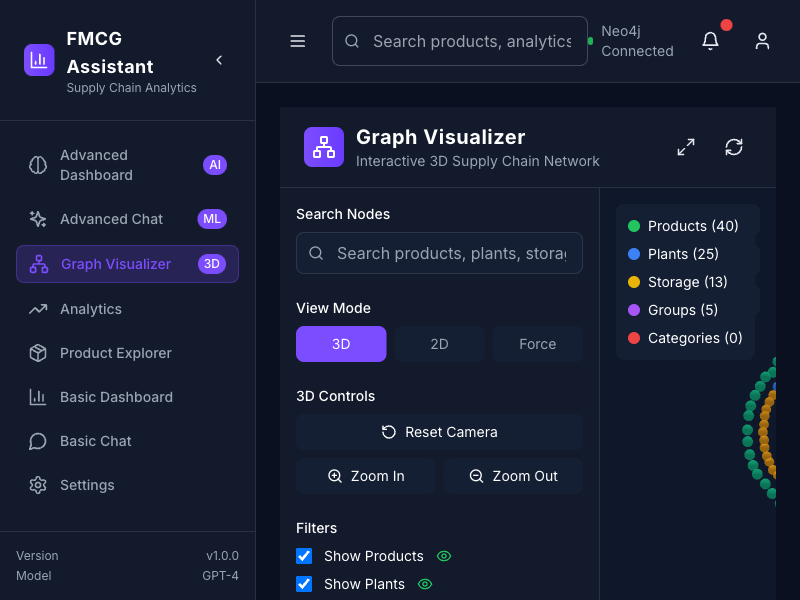
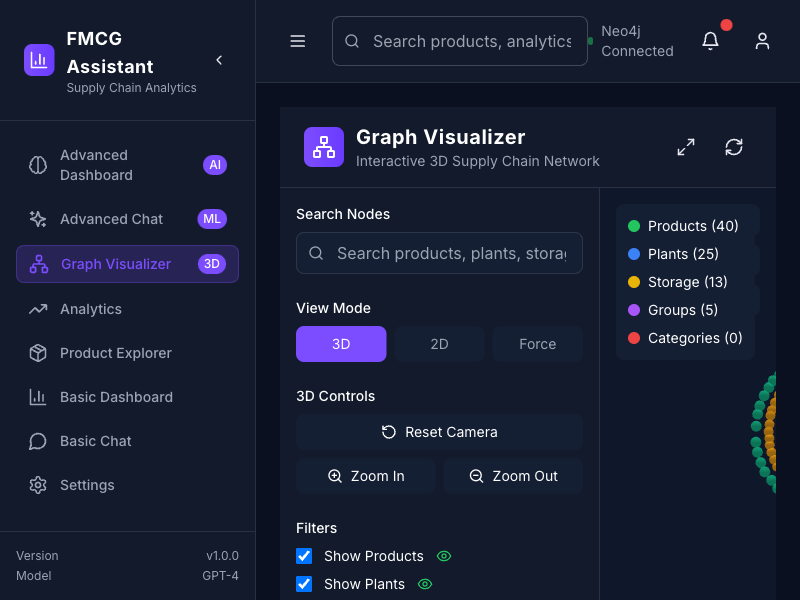
Add detailed debugging for edge mapping in 3D visualization

Changed region(s): [[0.9062, 0.6, 0.9688, 0.84]]

diff --git a/test_3d_detailed.js b/test_3d_detailed.js
@@ -1,0 +1,142 @@
+// Detailed test to debug 3D visualization issues
+const puppeteer = require('puppeteer');
+
+async function test3DDetailed() {
+  console.log('🔍 Detailed 3D Visualization Debug...');
+  
+  const browser = await puppeteer.launch({ headless: true });
+  const page = await browser.newPage();
+  
+  // Capture all console messages
+  const consoleMessages = [];
+  page.on('console', msg => {
+    consoleMessages.push({
+      type: msg.type(),
+      text: msg.text()
+    });
+  });
+  
+  try {
+    // Navigate to the graph page
+    await page.goto('https://llm-chatbot-python-production-7e6f.up.railway.app/graph', {
+      waitUntil: 'networkidle0',
+      timeout: 30000
+    });
+    
+    console.log('✅ Page loaded successfully');
+    
+    // Wait for the 3D visualization to load
+    await page.waitForTimeout(10000);
+    
+    // Print all console messages
+    console.log('\n📝 All Console Messages:');
+    consoleMessages.forEach((msg, i) => {
+      console.log(`  [${i}] [${msg.type}] ${msg.text}`);
+    });
+    
+    // Check viewMode
+    const viewMode = await page.evaluate(() => {
+      // Try to access React state
+      const root = document.querySelector('#root');
+      if (root && root._reactInternalFiber) {
+        return 'React root found';
+      }
+      return 'React root not accessible';
+    });
+    
+    console.log('\n🎯 ViewMode Status:', viewMode);
+    
+    // Check if 3D controls are actually rendered
+    const controlsStatus = await page.evaluate(() => {
+      const buttons = Array.from(document.querySelectorAll('button'));
+      const controlButtons = buttons.filter(btn => 
+        btn.textContent.includes('Reset Camera') ||
+        btn.textContent.includes('Zoom In') ||
+        btn.textContent.includes('Zoom Out')
+      );
+      
+      return {
+        totalButtons: buttons.length,
+        controlButtons: controlButtons.length,
+        buttonTexts: buttons.map(btn => btn.textContent.trim()),
+        controlButtonTexts: controlButtons.map(btn => btn.textContent.trim())
+      };
+    });
+    
+    console.log('\n🎛 Controls Status:', controlsStatus);
+    
+    // Check the actual DOM structure
+    const domStructure = await page.evaluate(() => {
+      const main = document.querySelector('main');
+      if (main) {
+        return {
+          tagName: main.tagName,
+          className: main.className,
+          childrenCount: main.children.length,
+          children: Array.from(main.children).map(child => ({
+            tagName: child.tagName,
+            className: child.className,
+            childrenCount: child.children.length
+          }))
+        };
+      }
+      return null;
+    });
+    
+    console.log('\n🏗 DOM Structure:', JSON.stringify(domStructure, null, 2));
+    
+    // Check if ForceGraph3D is rendering edges
+    const edgeStatus = await page.evaluate(() => {
+      const canvas = document.querySelector('canvas');
+      if (canvas) {
+        // Check if there are any WebGL draw calls or 3D elements
+        const webglContext = canvas.getContext('webgl') || canvas.getContext('webgl2');
+        if (webglContext) {
+          // Try to get some WebGL info
+          return {
+            hasCanvas: true,
+            hasWebGL: true,
+            webglVendor: webglContext.getParameter(webglContext.VENDOR),
+            webglRenderer: webglContext.getParameter(webglContext.RENDERER),
+            webglVersion: webglContext.getParameter(webglContext.VERSION)
+          };
+        }
+      }
+      return { hasCanvas: false, hasWebGL: false };
+    });
+    
+    console.log('\n🔗 Edge Status:', edgeStatus);
+    
+    // Check the graph data being passed to ForceGraph3D
+    const graphDataDebug = await page.evaluate(async () => {
+      try {
+        const response = await fetch('/api/graph/visualization');
+        const data = await response.json();
+        
+        // Check if edges have proper source/target mapping
+        const sampleEdges = data.edges?.slice(0, 5) || [];
+        const nodeIds = data.nodes?.map(n => n.id) || [];
+        
+        return {
+          nodesCount: data.nodes?.length || 0,
+          edgesCount: data.edges?.length || 0,
+          sampleEdges: sampleEdges,
+          nodeIds: nodeIds.slice(0, 10),
+          edgeSourceTypes: sampleEdges.map(e => typeof e.source),
+          edgeTargetTypes: sampleEdges.map(e => typeof e.target)
+        };
+      } catch (error) {
+        return { error: error.message };
+      }
+    });
+    
+    console.log('\n📊 Graph Data Debug:', JSON.stringify(graphDataDebug, null, 2));
+    
+  } catch (error) {
+    console.error('❌ Test failed:', error.message);
+  } finally {
+    await browser.close();
+  }
+}
+
+test3DDetailed();

diff --git a/src/pages/GraphVisualizer.jsx b/src/pages/GraphVisualizer.jsx
@@ -134,6 +134,18 @@ const GraphVisualizer = () => {
       const sourceNode = enhancedNodes.find(node => node.id === sourceId)
       const targetNode = enhancedNodes.find(node => node.id === targetId)
       
+      // Debug edge mapping
+      if (index < 5) {
+        console.log(`🔗 Edge ${index} mapping:`, {
+          sourceId,
+          targetId,
+          sourceNodeFound: !!sourceNode,
+          targetNodeFound: !!targetNode,
+          sourceNodeId: sourceNode?.id,
+          targetNodeId: targetNode?.id
+        })
+      }
+      
       if (sourceNode && targetNode) {
         return {
           ...edge,
@@ -156,7 +168,10 @@ const GraphVisualizer = () => {
       nodesCount: result.nodes.length,
       linksCount: result.links.length,
       sampleNode: result.nodes[0],
-      sampleLink: result.links[0]
+      sampleLink: result.links[0],
+      nodeIds: result.nodes.map(n => n.id).slice(0, 10),
+      linkSources: result.links.map(l => l.source?.id || l.source).slice(0, 5),
+      linkTargets: result.links.map(l => l.target?.id || l.target).slice(0, 5)
     })
 
     return result
